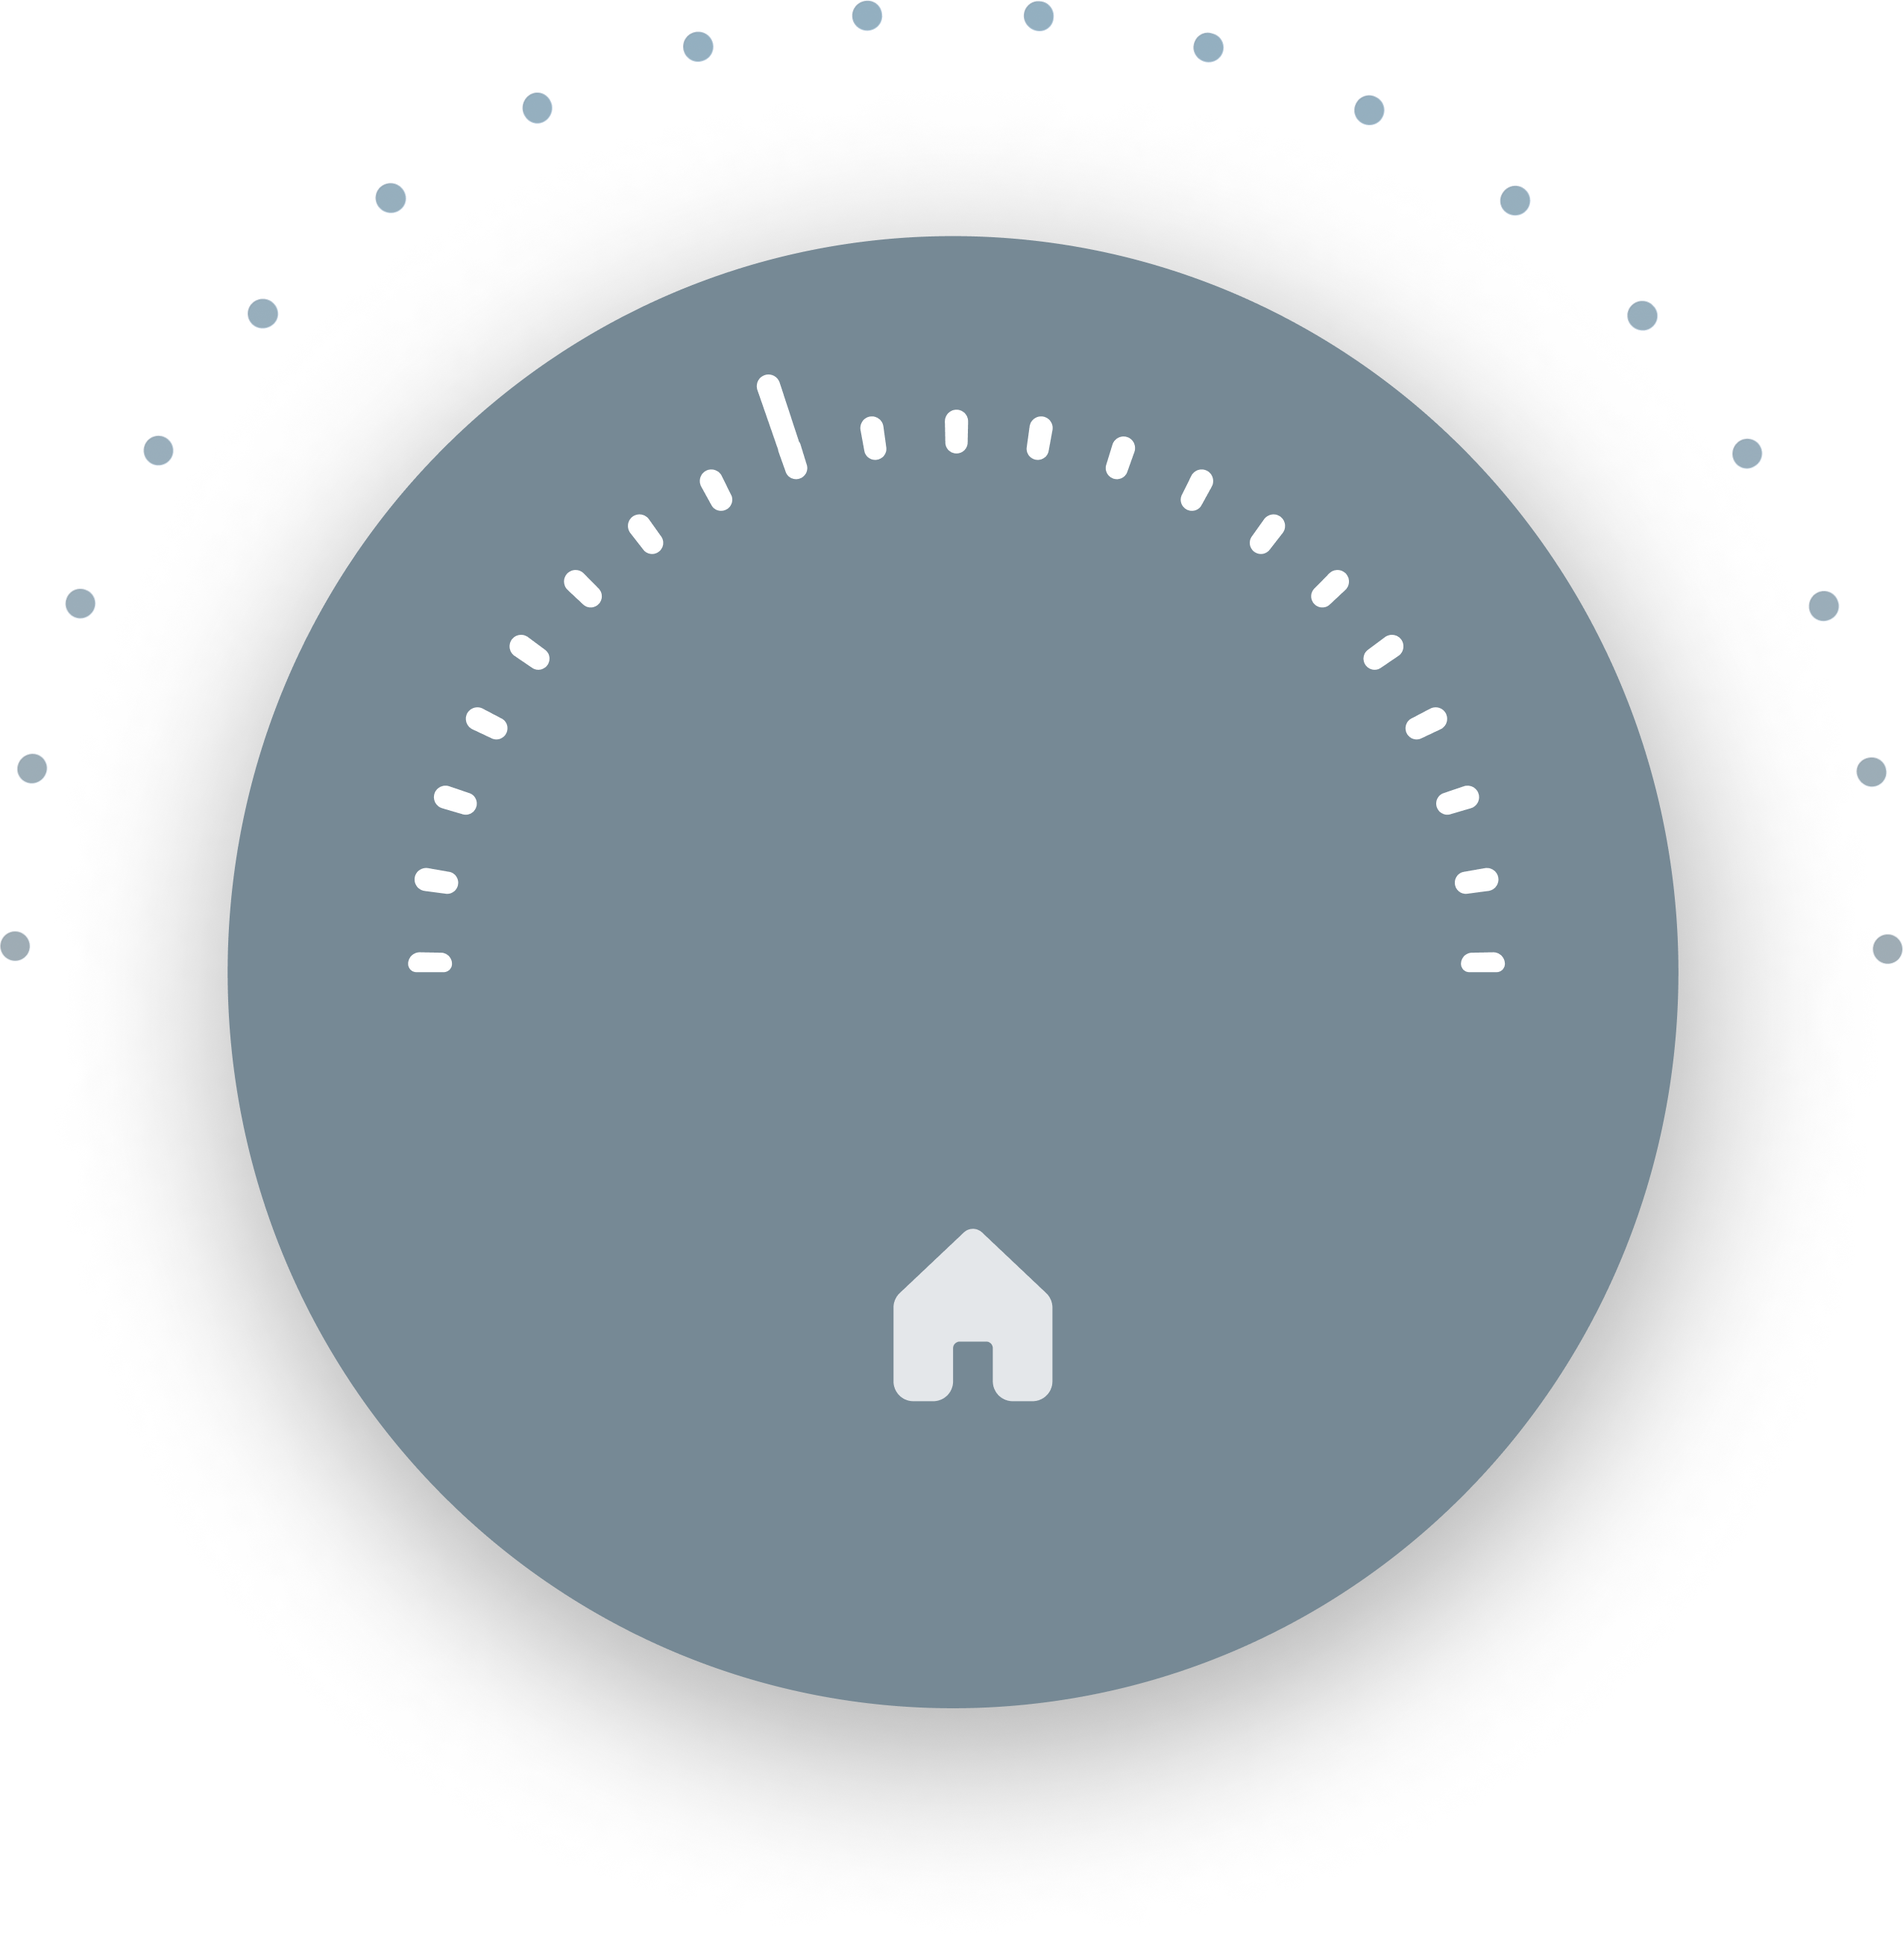
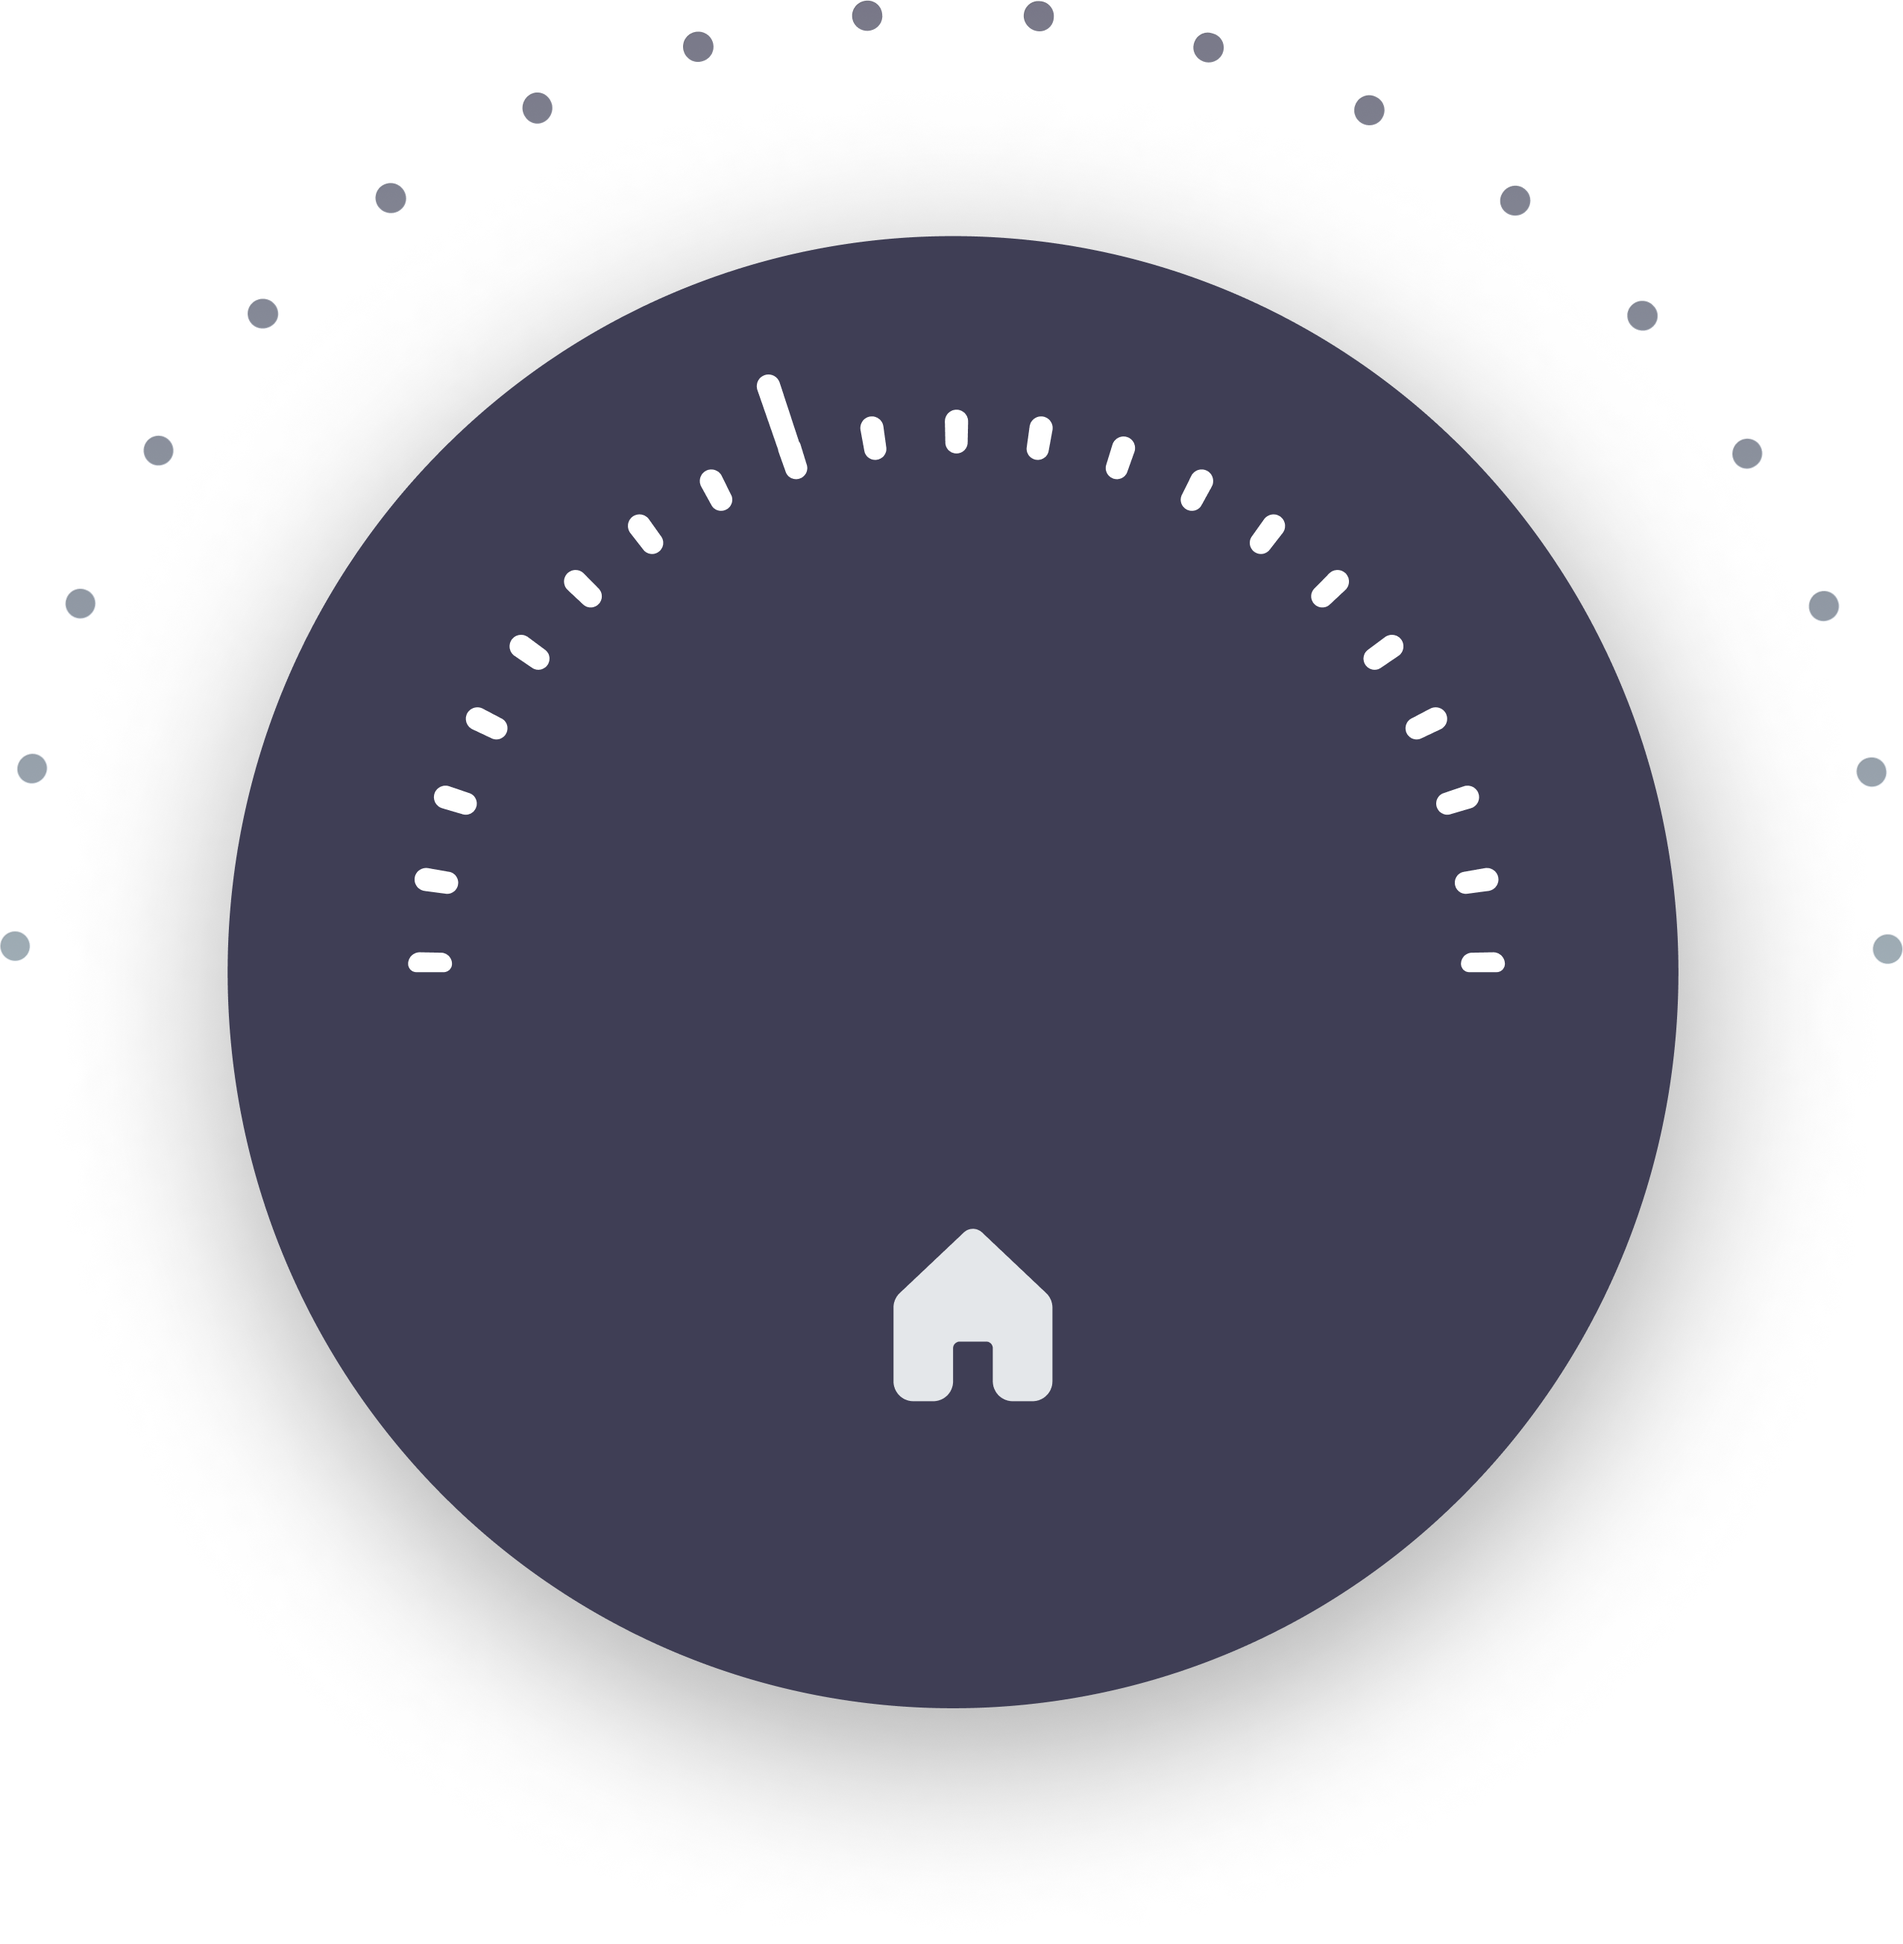
working on onboarding screen - change entire design?

diff --git a/Screens/Onboarding.js b/Screens/Onboarding.js
@@ -1,0 +1,57 @@
+import React, { useEffect, useState, useRef } from 'react';
+import { StyleSheet, Text, View, FlatList, Animated, KeyboardAvoidingView, TextInput, TouchableOpacity, Linking } from 'react-native';
+import Style from '../src/components/Style';
+import slides from '../src/constants/slides';
+import { OnboardingItem } from '../src/components/OnboardingItem';
+
+export const Onboarding = ()=> {
+
+  const [currentIndex, setCurrentIndex] = useState(0);
+
+  const scrollX = useRef(new Animated.Value(0)).current;
+
+  const slidesRef = useRef(null);
+
+  const viewableItemsChanged = useRef(({ viewableItems }) => {
+    setCurrentIndex(viewableItems[0].index);
+  }).current;
+
+  const viewConfig = useRef({ viewAreaCoveragePercentThreshold: 50}).current;
+
+  return (
+    <View style={styles.container}>
+      <View style={{flex : 3}}>
+        <FlatList 
+          data={slides} 
+          style={styles.list} 
+          renderItem={({ item }) => <OnboardingItem item={item}/>} 
+          horizontal
+          showsHorizontalScrollIndicator
+          pagingEnabled
+          bounces={false}
+          keyExtractor={(item) => item.id}
+          onScroll={Animated.event([{ nativeEvent: { contentOffset: { x: scrollX }}}], {
+            useNativeDriver: false,
+          })}
+          scrollEventThrottle={32}
+          onViewableItemsChanged={viewableItemsChanged}
+          viewabilityConfig={viewConfig}
+          ref={slidesRef}
+        />
+      </View>
+    </View>
+  );
+};
+
+const styles = StyleSheet.create({
+  container: {
+    flex: 1,
+    justifyContent: 'center',
+    alignItems: 'center',
+    backgroundColor: 'white'
+  },
+  list: {
+    flex: 1,
+  },
+
+})

diff --git a/src/components/OnboardingItem.js b/src/components/OnboardingItem.js
@@ -1,0 +1,65 @@
+import { View, Text, StyleSheet, FlatList, Image, useWindowDimensions } from 'react-native'
+import React from 'react'
+
+export const OnboardingItem = ({ item }) => {
+
+  const { width } = useWindowDimensions();
+
+  let img = require('../assets/slide3.png');
+
+  if (item.image == '../assets/slide1.png') {
+    img = require('../assets/slide1.png');
+  } else if (item.image == '../assets/slide2.png') {
+    img = require('../assets/slide2.png');
+  }
+
+  return (
+    <View style={[styles.container, { width }]}>
+      <View style={styles.imageContainer}>
+        <Image source={img} style={styles.image}/>
+      </View>
+      <View style={styles.info}>
+        <Text style={styles.title}>{item.title}</Text>
+        <Text style={styles.description}>{item.description}</Text>
+  </View>
+    </View>
+  )
+}
+
+const styles = StyleSheet.create({
+  container: {
+    flex: 1,
+    justifyContent: 'center',
+    alignItems: 'stretch',
+  },
+  imageContainer: {
+    height: 300,
+    justifyContent: 'center',
+    flex: 1,
+    alignItems: 'center'
+  },
+  image: {
+    height: 200,
+    width: '75%',
+    paddingHorizontal: 30,
+    marginBottom: '25%',
+    marginTop: '100%'
+  },
+  info: {
+    flex: 3,
+    justifyContent: 'center'
+  },
+  title: {
+    fontWeight: '800',
+    fontSize: 28,
+    marginBottom: 10,
+    color: '#3F3E55',
+    textAlign: 'center',
+  },
+  description: {
+    fontWeight: '300',
+    color: '#3F3E55',
+    textAlign: 'center',
+    paddingHorizontal: 64
+  }
+})

diff --git a/App.js b/App.js
@@ -18,6 +18,7 @@ import { JoinHome } from './Screens/JoinHome';
 import { CreateHome } from './Screens/CreateHome';
 import { SetPreferences } from './Screens/SetPreferences';
 import { ChooseAuth } from './Screens/ChooseAuth';
+import { Onboarding } from './Screens/Onboarding';
 
 
 // geolocation
@@ -62,6 +63,7 @@ export default function App() {
         <Stack.Screen name='createhome' component={CreateHome}/>
         <Stack.Screen name='setpreferences' component={SetPreferences}/>
         <Stack.Screen name='chooseauth' component={ChooseAuth} options={{ headerShown: false }}/>
+        <Stack.Screen name='onboarding' component={Onboarding} options={{ headerShown: false }}/>
       </Stack.Navigator>
     </NavigationContainer>
   );

diff --git a/Screens/StartScreen.js b/Screens/StartScreen.js
@@ -64,6 +64,9 @@ export const StartScreen = ({navigation}) => {
             <TouchableOpacity onPress={() => navigation.navigate('chooseauth')}>
                 <Text>Go to Choose Auth Page</Text>
             </TouchableOpacity>
+            <TouchableOpacity onPress={() => navigation.navigate('onboarding')}>
+                <Text>Go to Onboarding Page</Text>
+            </TouchableOpacity>
 
             <TouchableOpacity onPress={() => {
                 console.log(watchPosition);

diff --git a/src/constants/slides.js b/src/constants/slides.js
@@ -1,0 +1,21 @@
+export default [
+  {
+    id: '1',
+    title: 'first slide',
+    description: 'information :)',
+    image: '../assets/slide1.png'
+  },
+  {
+    id: '2',
+    title: 'second slide',
+    description: 'more information',
+    image: '../assets/slide2.png'
+  },
+  {
+    id: '3',
+    title: 'third slide',
+    description: 'even more info!',
+    image: '../assets/slide3.png'
+  }
+  
+];
